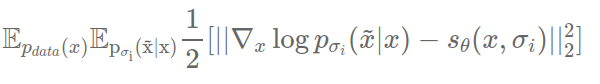
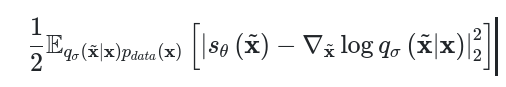
add

Changed region(s): [[0.0, 0.119, 1.0, 0.881]]

diff --git a/이론 pdf 파일/딥러닝 이론/pixel-wise-independent-learning/pixel-wise-independent-learning.md b/이론 pdf 파일/딥러닝 이론/pixel-wise-independent-learning/pixel-wise-independent-learning.md
@@ -5,6 +5,7 @@
 *in image generative models*
 
 [Definition](#definition)</br>
+[Update Definition](#update-definition)
 
 
 
@@ -49,3 +50,86 @@ $$ p(x) = p(x_1,x_2, \cdots , x_{100}) = p(x_1) \times p(x_2) \times \cdots \tim
 <p align="center">
 <img src='./img4.png'>
 </p>
+
+### <strong>Update Definition</strong>
+
+이미지 생성 분야에서 데이터 분포 $p(x)$ 를 추정하기 위해 활용하는 방법은 
+
+크게 3 가지인거 같다. 
+
+1. 베이지 룰
+
+2. 깁스 분포 in score-based/energy-based
+
+
+3. x 를 특정 확률 변수들로 쪼개서 $p(x)$ 를 계산. 
+  - 즉, $p(x)$ 를 다변수 확률 분포이자 결합확률분포로 본다. 
+  - 원래라면, $p(x)$ 는 알 수 없는 분포이기 때문에 $x$ 자체를 쪼개는 게 말이 되지 않는다.
+  - 이렇게 쪼개는 것 자체가, $p(x)$ 에서 $x$ 를 결정하는 요인을 내가 결정하는 것이라고 볼 수 있다. 
+  - E.g., $p(x)$ 를 결정하는 확률 변수는  
+    - $R,G,B$ channel 이다. 
+    - pixel 값 
+    - (사람 눈, 사람 코) in 사람 데이터
+  - E.g., Autoregressive models (pixelCNN/pixelRNN)
+
+<p align="center">
+<img src='./img5.png'>
+</p>
+
+- 이 review 에서 살펴볼건, **1. & 2.** 에 대해서라고 볼 수 있다. 정확히는, $p(x)$ 를 모르기에 noise 를 이용하여 내가 표현할 수 있는 분포로 추정하는 방법들에 대해서 언급하고자 한다.
+
+- Score-based model 중 NCSN 에 대해서 얘기를 해보자. 
+  - 다음의 목적함수에서 $q_{\sigma}(\tilde{x}|x)$ 는 $x + z$, $x$: image data, $z \sim N(0,\sigma^2 I)$ 로 표현되는 확률 분포여서 
+  - $q_{\sigma}(\tilde{x}|x) \sim N(x,\sigma^2 I)$ 를 만족하는 다변수 가우시안 분포가 된다. 이때 다변수 즉, 확률변수들은 각 픽셀이 된다. 주목해야 되는 건, 노이즈를 사용해서 픽셀에 대한 확률 분포로 표현하면서 $p(x)$ 와는 달리 정확하게 분포를 표현할 수 있는 것이다. ($x$ 를 확률 변수 (픽셀)로 쪼갤 수 있게 된다 $x_1,x_2,x_3, \cdots$)
+  - 이때, noise 를 각 pixel 마다 독립적으로 더해주기 때문에 (일반적으로 noise 를 더해줄때, $N(0,\sigma^2I)$ 를 가정하는데 분산에 단위 행렬이 곱해진 걸 보면 독립이라는 걸 알 수 있다) 다변수 가우시안 분포의 공분산 행렬의 비대각 원소는 $0$ 이 된다. 
+  - 심지어 각 pixel 마다 동일한 노이즈를 더해주기 때문에 공분산 행렬의 주대각 원소는 동일하게 $\sigma^2$ 이다.
+  - 주대각 원소가 동일한 배열의 역함수는 각 원소에 역수를 취한 값이다.
+  - 다변수 가우시안 분포 값은 스칼라 값이다. 
+  - 다변수 가우시안 분포는 일변량 정규분포를 둘 이상의 변수로 일반화한 것 이다. 즉, 확률 변수를 쪼갠것
+  - $x \in R^{d \times 1}, \mu \in R^{d \times 1}, \varSigma \in R^{d \times d}$
+> Objective Function of Denoising Score Matching 
+
+<p align="center">
+<img src='./img3.png'>
+</p> 
+
+
+$$ N(x ; \mu, \Sigma) = \dfrac{1}{(2\pi)^{d/2} |\varSigma| ^{1/d}} \exp \left( -\dfrac{1}{2} (x-\mu)^T \varSigma^{-1} (x-\mu) \right) $$
+
+- 위의 조건들을 바탕으로 풀어쓰면,
+
+$$ N(x ; \mu, \varSigma) = \dfrac{1}{(2\pi)^{d/2} |\varSigma| ^{1/d}} \exp \left( -\dfrac{1}{2} \frac{(x-\mu)^2}{\sigma^2}  \right) = \dfrac{1}{(2\pi)^{d/2} |\varSigma| ^{1/d}} \exp \left( -\dfrac{1}{2} \sum_{i = 1}^{d}\frac{(x_{i}-\mu_{i})^2}{\sigma^2}  \right) $$
+
+- Notation 을 NCSN 에 맞춰주면, 
+
+$$ N(\tilde{x} ; x, \varSigma) = \dfrac{1}{(2\pi)^{d/2} |\varSigma| ^{1/d}} \exp \left( -\dfrac{1}{2} \frac{(\tilde{x}-x)^2}{\sigma^2}  \right) = \dfrac{1}{(2\pi)^{d/2} |\varSigma| ^{1/d}} \exp \left( -\dfrac{1}{2} \sum_{i = 1}^{d}\frac{(\tilde{x}_i-x_i)^2}{\sigma^2}  \right) $$
+
+- 공분산 행렬의 비대각 원소는 $0$ 이고, 주대각 원소는 동일할 때의 역함수 계산
+
+<p align="center">
+<img src='./img6.png'>
+</p> 
+
+<p align="center">
+<img src='./img7.png'>
+</p> 
+
+- 다음의 조건들을 바탕으로 목적 함수를 풀어쓰면, 다음과 같다.
+  - $\nabla_{x}\log$ 를 주의
+
+$$ Loss = E_{q_{\sigma}(x, \tilde{x})}[\frac{1}{2} \Vert S_{\theta}(\tilde{x}) - \nabla_{\tilde{x}} \log{q(\tilde{x}|x)} \Vert_2^2] = E_{q_{\sigma}(x, \tilde{x})}[\frac{1}{2} \Vert S_{\theta}(\tilde{x}) - \frac{x-\tilde{x}}{\sigma^2} \Vert_2^2] \\ = E_{q_{\sigma}(\tilde{x} | x)}E_{p_{data}}[\frac{1}{2} \Vert S_{\theta}(\tilde{x}) - \frac{x-\tilde{x}}{\sigma^2} \Vert_2^2] $$
+
+- 스칼라 값 (다변수 확률 분포 값) 을 확률 분포 (픽셀) 로 미분하기 때문에 픽셀 개수만큼의 벡터가 나와야 한다. 실제 코딩에선 이미지 차원 형태로 output 이 나오므로 벡터가 아닌 tensor 형태로 나오겠지만 어쨌든, Loss 값은 스칼라가 나와야 하니 $\Vert \Vert_2^2$ 를 해주면 의미상 동일하다. 즉, $\Vert \Vert_2^2$ 부호 상관없이 크기를 측정하려고 쓰는 것이라는 걸 알 수 있었다.
+
+
+- In DDPM, 역시나 $Noise \sim N(0,I)$ 를 더해줘서 다변량 가우시안 분포를 따른다. 정확히는 $\beta_t$ noise scheduling 을 거치긴 한다. 그래도 분산이 단위행렬인 즉, 각 확률 변수 (pixel) $x_1, x_2, \cdots$ 가 독립이기 때문에 공분산이 주대각 원소만 남고 주대각 원소들의 값이 모두 동일하다는 걸 알 수 있다. 
+- 이건 목적 함수를 내가 표현할 수 있게 만들어준다. $\rightarrow$ noise 를 더해서 다변량 가우시안 분포 
+- 계산상 편리함을 가져다 준다. $\rightarrow$ noise 의 확률변수 (픽셀)가 독립이고 분산이 동일해서 공분산 계산이 쉽다. 
+
+<p align="center">
+<img src='./img8.png'>
+</p> 
+
+<p align="center">
+<img src='./img9.png'>
+</p> 
